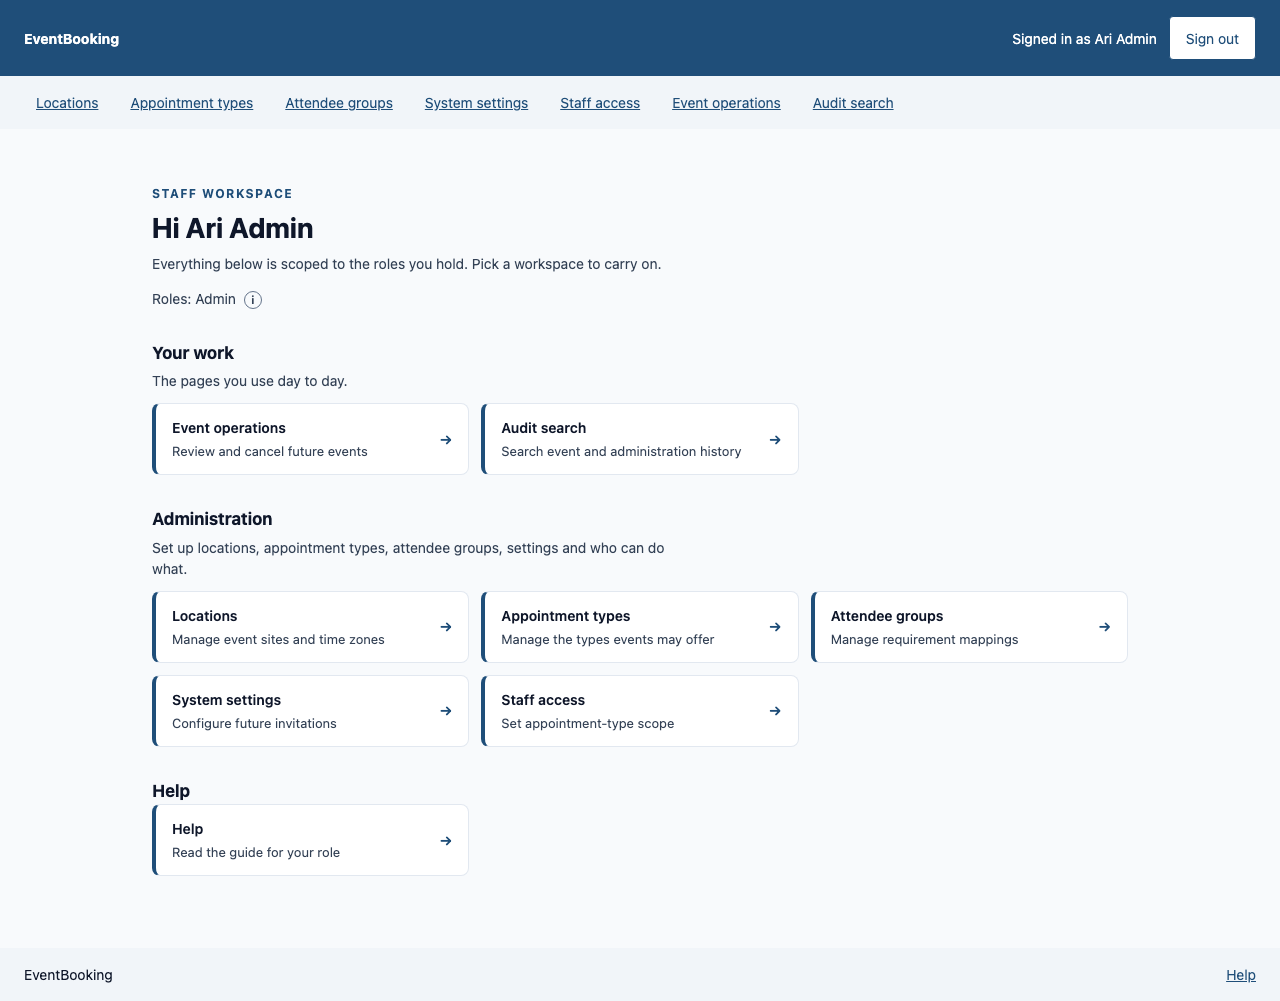
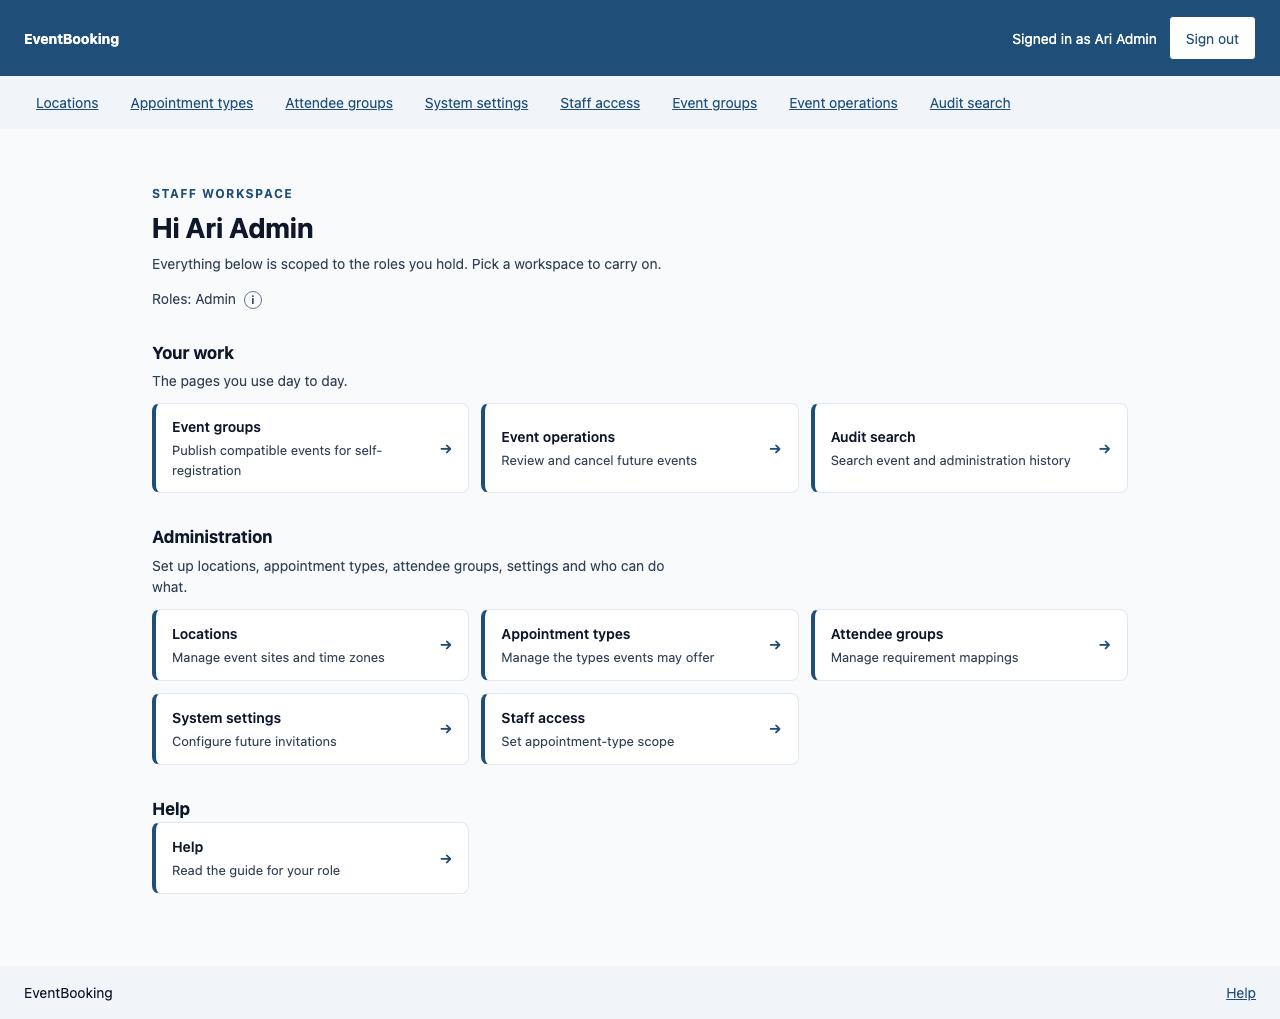
docs: add event-group self-registration to user guides and acceptance pack

diff --git a/docs/user-guides/coordinator-guide.md b/docs/user-guides/coordinator-guide.md
@@ -18,7 +18,9 @@ audit trail.
 6. After delivery staff record outcomes, review each attendee's readiness.
 7. If the latest unsatisfied attempt is No-show, select **Arrange missed appointments** and monitor
    the recovery invitation until the missed types are completed.
-8. When a plan changes, cancel the attendee's booking from their row — with or without sending
+8. To let attendees register themselves instead of waiting for an invitation, publish an event group
+   on **Event groups** and share its link.
+9. When a plan changes, cancel the attendee's booking from their row — with or without sending
    fresh options — rather than asking them to find their emailed link.
 
 ## Home page
@@ -28,6 +30,7 @@ After signing in, the home-page access summary should include **Coordinator**. I
 - **Attendees** (`/attendees`)
 - **Dashboards** (`/dashboards`)
 - **Events** (`/events`)
+- **Event groups** (`/event-groups`)
 - **Audit trail** (`/audit`)
 - **Help** (`/help`) — every role's guide, including the attendee guide
 
@@ -243,6 +246,51 @@ rebooking workflow — so tell the delivery teams first, and expect the affected
 watching afterwards. A Manager can cancel the same window from their own screen, so agree who is
 acting before anyone clicks.
 
+## Event groups screen
+
+Use `/event-groups` to publish Confirmed Events for public self-registration. Admins can manage
+event groups too. An attendee who opens the shared link chooses an event, sends a request, and books
+the place by confirming through an emailed link. No invitation is involved, and the Attendee record
+is created or reused automatically.
+
+### Create an event group
+
+1. Select **New event group**.
+2. Enter a **Title** and **Description**. Both are shown to the public.
+3. Under **Eligible attendee groups**, tick each Attendee Group that may register. The line beneath
+   lists the Appointment Types those groups require.
+4. Select **Save**. A new group starts closed; edit it and tick **Open group for registration** when it is ready to publish.
+
+The Attendee Group **Description** (set by an Admin on Attendee groups) appears beside each group
+name on the public form. Every selected group must require exactly the same Appointment Types as
+the events you add.
+
+### Add and manage events
+
+1. Select **Edit** on the group.
+2. Choose an event from **Add an event…**, then select **Add event**. Only active future events
+   whose Appointment Types exactly match the group are selectable; incompatible ones are greyed out
+   with the types they lack.
+3. Newly added events start closed: tick **Open registration for this event** to publish one, and
+   untick it to stop new requests. Select **Remove** to take an event out of the group.
+4. Copy the **Shareable link** to send to attendees.
+
+Closing a group, closing an event, or removing an event stops new requests and confirmations but
+never cancels a Booking that already exists. An Attendee Group cannot be deactivated, and its
+Appointment Type mapping cannot be changed to an incompatible set, while an event group lists it.
+
+### What attendees experience
+
+The public page never shows capacity. A group with no space is labelled "(full)" on the request
+form, and the server refuses an over-capacity request or confirmation. A request holds no place;
+capacity is taken only at confirmation, so an attendee who confirms after the last place has gone is
+refused.
+
+Confirmation creates or reuses the Attendee (matched on email) and creates a Booking, so the person
+then appears on **Attendees** as Booked with a normal booking-management link. Unconfirmed requests
+expire after the window Admins set on System settings (24 hours by default), and terminal requests
+are purged 30 days after they are confirmed or expire, along with their confirmation emails.
+
 ## Audit trail screen
 
 Use `/audit` to search across the whole record. As a Coordinator you see both attendee entries
@@ -263,6 +311,15 @@ proposals, events, and staff access profiles).
 
 ## Troubleshooting
 
+- **An event will not add to an event group** — its Appointment Types differ from those the
+  selected Attendee Groups require, it is not active, or it has started. Pick a compatible event or
+  change the group selection.
+- **An attendee says the confirmation link does not work** — links expire after the configured
+  window and work once. Ask them to submit a new request from the group page; if they already
+  confirmed, look for their Booking on **Attendees**.
+- **An attendee says no email arrived** — the page shows the same message whether or not an address
+  is eligible, and repeat requests for one address are throttled. Ask them to check spam and wait
+  before retrying.
 - **Invite cannot be created** — fewer than three suitable events exist, the attendee data is
   inconsistent, or another action changed state. Refresh, fix the stated dependency, and retry.
 - **Invitation link is invalid** — it may be expired, used, cancelled, or superseded by an Employee

diff --git a/docs/user-guides/README.md b/docs/user-guides/README.md
@@ -8,11 +8,11 @@ that page; a signed-out visitor sees only the attendee guide.
 
 | Guide | Who it is for | Main workspace |
 |---|---|---|
-| [Admin](admin-guide.md) | System administrators who set appointment-type scope, settings, and event operations | System settings, Staff access, Events, Audit trail |
-| [Coordinator](coordinator-guide.md) | Recruitment coordinators who manage attendees, invitations, bookings, readiness, and recovery | Attendees, Dashboards, Events, Audit trail |
+| [Admin](admin-guide.md) | System administrators who set appointment-type scope, settings, and event operations | System settings, Staff access, Events, Event groups, Audit trail |
+| [Coordinator](coordinator-guide.md) | Recruitment coordinators who manage attendees, invitations, bookings, readiness, and recovery | Attendees, Dashboards, Events, Event groups, Audit trail |
 | [Manager](manager-guide.md) | Appointment-type managers who negotiate events, manage capacity, and may deliver appointments | Event proposals, Appointments |
 | [Appointment staff](appointment-staff-guide.md) | Delivery staff who check attendees in and record outcomes | Appointments |
-| [Attendee](attendee-guide.md) | Invited attendees who choose and manage appointment times | Email links for booking and booking management |
+| [Attendee](attendee-guide.md) | Invited or self-registering attendees who choose and manage appointment times | Email links for booking and booking management; public event-group pages |
 
 ## End-to-end workflow and dependencies
 
@@ -28,6 +28,7 @@ that page; a signed-out visitor sees only the attendee guide.
 | 8. Deliver appointments | Manager or Appointment staff | The attendee has an active Booking on the selected Confirmed Event | **Appointments**: check in, complete, or record No-show for the caller's scoped type |
 | 9. Check readiness | Coordinator | Appointment outcomes have been recorded | **Attendees**: expand readiness; the attendee is ready only when every current required type has a Completed outcome |
 | 10. Recover a missed appointment | Coordinator, then Attendee | The latest unsatisfied attempt for at least one current required type is No-show | **Attendees**: choose **Arrange missed appointments**; the attendee books a new shared event containing only the missed types |
+| 5a. Publish for self-registration (optional) | Admin or Coordinator | Confirmed Events that all offer exactly the Appointment Types the chosen Attendee Groups require | **Event groups**: create a group, add compatible events, share its link; attendees request a place and confirm by email, which books it without an invitation |
 | 11. Account for a change | Admin or Coordinator | The change has been recorded | **Audit trail**, or the **History** control on a attendee or event row |
 
 An upstream delay remains visible at the next stage. For example, a Coordinator cannot issue an
@@ -46,8 +47,8 @@ requires returning to the home page first. **Help** is the last link in both pla
 
 | Access profile | Workspace links |
 |---|---|
-| Admin | System settings, Staff access, Events, Audit trail |
-| Coordinator | Attendees, Dashboards, Events, Audit trail |
+| Admin | System settings, Staff access, Events, Event groups, Audit trail |
+| Coordinator | Attendees, Dashboards, Events, Event groups, Audit trail |
 | Manager | Event proposals, Appointments |
 | Appointment staff | Appointments |
 
@@ -60,8 +61,8 @@ identity provider; ask whoever administers application access there, not a Event
 page or action is missing, first check the access summary: the absence is normally an access rule,
 not a page fault.
 
-Attendees do not sign in. They use personal, single-use links sent by email and see no staff
-navigation. They can open `/help` without signing in to read the attendee guide.
+Attendees do not sign in. They use personal, single-use links sent by email, or the public
+event-group pages a Coordinator shares, and see no staff navigation. They can open `/help` without signing in to read the attendee guide.
 
 ## Who assigns what
 
@@ -82,6 +83,9 @@ profile only appears on the Staff access screen after that person has signed in 
   Appointment Types the attendee requires; nobody selects those requirements individually.
 - A **Event Proposal** is a suggested four-hour window. Once all three Managers accept it, it becomes
   a **Confirmed Event** that attendees can book.
+- An **Event Group** is a public page that lists open Confirmed Events for chosen Attendee Groups. An
+  attendee can request a place there without an invitation; the place is booked only when they
+  confirm through an emailed link.
 - An **Invite** offers a attendee exactly three suitable Confirmed Events. Confirming one creates a
   **Booking**.
 - A **Booking Appointment** is one required Appointment Type inside a Booking. Each type is checked

diff --git a/docs/user-acceptance/admin.md b/docs/user-acceptance/admin.md
@@ -7,7 +7,7 @@
 ## ADM-01 — Find your workspaces and access boundary
 
 1. Sign in at [EventBooking](https://eventbooking.tqaentry.com/). **Expect:** the home page shows the Admin role and no appointment-type scope.
-2. In **Administration**, find **Locations**, **Appointment types**, **Attendee groups**, **System settings**, and **Staff access**. In **Your work**, find **Event operations** and **Audit search**. Open **Help**. **Expect:** the pages load and the Admin guide is available.
+2. In **Administration**, find **Locations**, **Appointment types**, **Attendee groups**, **System settings**, and **Staff access**. In **Your work**, find **Event groups**, **Event operations** and **Audit search**. Open **Help**. **Expect:** the pages load and the Admin guide is available.
 3. Inspect the home page and navigation. **Expect:** no **Attendees**, **Dashboards**, **Negotiation board**, or **Appointment workspace** link. Open `/attendees` directly in the address bar. **Expect:** the page states that a Coordinator profile is required and shows no attendee records.
 
 **Reference screens (local demo build):**
@@ -29,7 +29,7 @@
 
 1. Open **Locations**. Find an active site, read its address and time zone, then select **Edit**. **Expect:** Code is fixed; Name, Address, Time zone and Active are visible. Select **Cancel** without saving.
 2. Open **Appointment types**. **Expect:** each row shows Code, Name, Manager, Status and **Edit**. A type without a Manager is visibly identified.
-3. Open **Attendee groups**. Open one row with **Edit**. **Expect:** its required appointment types are selected. Select **Cancel** without saving.
+3. Open **Attendee groups**. Open one row with **Edit**. **Expect:** its required appointment types are selected and a **Description** field (up to 500 characters, shown publicly on self-registration forms) is present. Select **Cancel** without saving.
 4. If the test lead reserved a unique code for you, create one test Location with **New location** and a valid IANA time zone, then confirm it appears in the table. Leave it active for later tests. Otherwise mark this step Not run.
 5. If the test lead reserved a second unique code, select **New attendee group**, enter that Code and a Name, and select at least one active appointment type with a Manager. Select **Save**. **Expect:** the new group appears with those required types. Otherwise mark this step Not run.
 
@@ -44,13 +44,16 @@
 ![Attendee groups](screenshots/adm02-attendee-groups.png)
 *Attendee groups.*
 
+![Attendee group editor with Description](screenshots/adm02-attendee-group-edit.png)
+*Attendee group editor with the new Description field.*
+
 **Result:** Pass / Fail / Blocked / Not run
 
 **Actual result and evidence:** ____________________
 
 ## ADM-03 — Check invitation settings
 
-1. Open **System settings**. Record **Invitation expiry (days)**, **Automatic retries**, and **Options per invitation**. **Expect:** all three current values are visible; options per invitation is between 1 and 5.
+1. Open **System settings**. Record **Invitation expiry (days)**, **Automatic retries**, and **Options per invitation**, and **Self-registration confirmation window (hours)**. **Expect:** all four current values are visible; options per invitation is between 1 and 5 and the confirmation window is between 1 and 168 hours.
 2. If settings changes are reserved for this run, change one value by 1 within its displayed range and select **Save changes**. Refresh the page. **Expect:** the new value remains.
 3. Restore the original value and save again. **Expect:** it remains after refresh. Existing invitations should retain the settings captured when they were issued; confirm that with the Coordinator if an existing test invitation is available.
 

diff --git a/docs/user-acceptance/coordinator.md b/docs/user-acceptance/coordinator.md
@@ -6,7 +6,7 @@
 
 ## COO-01 — Find the work queues
 
-1. Sign in. **Expect:** **Attendees**, **Dashboards**, **Event operations**, and **Audit search** under **Your work**; read-only **Locations**, **Appointment types**, and **Attendee groups** under **Reference data**. **Staff access** and **System settings** are absent.
+1. Sign in. **Expect:** **Attendees**, **Dashboards**, **Event operations**, **Event groups**, and **Audit search** under **Your work**; read-only **Locations**, **Appointment types**, and **Attendee groups** under **Reference data**. **Staff access** and **System settings** are absent.
 2. Open **Dashboards**. Switch between **Awaiting availability**, **No response**, and **Events**. **Expect:** each tab shows its own count and rows or an empty message. Use the Location filter and note whether the data changes as expected.
 3. Open **Attendees**. Use Status, Group, Readiness, and **Search by name or email…** to locate an existing test attendee. **Expect:** the row shows required types, status, readiness, delivery, booking and history.
 4. Open **Help**. **Expect:** the Coordinator guide is available.
@@ -97,3 +97,21 @@
 **Result:** Pass / Fail / Blocked / Not run
 
 **Event, affected booking and evidence:** ____________________
+
+## COO-07 — Publish an event group for self-registration
+
+1. Open **Event groups**. Select **New event group**. (Known issue on the 2026-09-26 local build: **New event group** and **Edit** do not appear because the API omits the `createEventGroup` link. Mark Blocked or create the group through the API until it lands.) Enter a reserved **Title** and **Description**, tick one or more **Eligible attendee groups**, and select **Save**. **Expect:** the line beneath the group list shows the Appointment Types those groups require, and the new group appears in the list. Groups are created closed; tick **Open group for registration** and save to publish.
+2. Select **Edit** on it. Open **Add an event…**. **Expect:** events whose types do not match the group are greyed out and say which types differ. Add a compatible future event. **Expect:** it appears under **Member events**. Newly added events start with **Open registration for this event** unticked; tick it to publish that event.
+3. Copy the **Shareable link** for the Attendee tester (ATT-04). Do not paste it into a public issue.
+4. After ATT-04, find the attendee on **Attendees**. **Expect:** status Booked with a booking that the **Bookings** control reveals. **History** shows the self-registration booking.
+5. Untick **Open registration for this event**, or untick **Open group for registration** and save. **Expect:** the public page no longer offers new requests, and the earlier booking remains.
+6. Try to deactivate an attendee group that the event group lists (Admin only, on **Attendee groups**). **Expect:** it is refused with a message naming the event groups that use it.
+
+**Reference screens (local demo build):**
+
+![Event groups list (groups created through the API — see the note below)](screenshots/coo07-event-groups-list.png)
+*Event groups list (groups created through the API — see the note below).*
+
+**Result:** Pass / Fail / Blocked / Not run
+
+**Event group, event and evidence:** ____________________

diff --git a/docs/user-acceptance/attendee.md b/docs/user-acceptance/attendee.md
@@ -65,3 +65,45 @@
 **Result:** Pass / Fail / Blocked / Not run
 
 **Device, accessibility observations and evidence:** ____________________
+
+## ATT-04 — Register yourself from a group page
+
+Needs a shareable link from the Coordinator (COO-07) and a test mailbox you control. No invitation is required.
+
+1. Open the group link. **Expect:** the group title and description, then open events showing place, address, date and start time, with no capacity figures. A closed or unknown group says it is no longer open and shows the Coordinator contact.
+2. Select an event. **Expect:** the event's place, time and appointment types, and **Full name**, **Email address** and **Your group** fields. The page states that sending the request does not hold a place.
+3. Leave a field empty and select **Send request**. **Expect:** an accessible error and the other entries kept.
+4. Enter the test name and mailbox, choose a group, and select **Send request**. **Expect:** **Check your email**, with the same wording for a new or an already-requested address. Repeat the request once. **Expect:** the same wording, and no second confirmation email arrives immediately.
+5. Open the emailed link. **Expect:** the group title, place, date, start time and your group, with **Confirm my place**. Select it once. **Expect:** **Your place is booked** and a booking-confirmation email with a management link.
+6. Reopen the confirmation link. **Expect:** it reports that your place is booked and creates no second booking. Open the management link and confirm it shows the booking.
+7. With a link known to be expired or malformed, open it. **Expect:** an error with the Coordinator contact, and no token in the page text. Never edit a real person's token to test this.
+
+**Reference screens (local demo build):**
+
+![Public event group](screenshots/att04-group.png)
+*Public event group.*
+
+![Request form](screenshots/att04-event-form.png)
+*Request form.*
+
+![Validation error](screenshots/att04-form-error.png)
+*Validation error.*
+
+![Request sent](screenshots/att04-check-email.png)
+*Request sent.*
+
+![Confirm my place](screenshots/att04-confirm.png)
+*Confirm my place.*
+
+![Place booked](screenshots/att04-booked.png)
+*Place booked.*
+
+![Invalid confirmation link](screenshots/att04-invalid-link.png)
+*Invalid confirmation link.*
+
+![Request form at 375 px wide](screenshots/att04-mobile-event-form.png)
+*Request form at 375 px wide.*
+
+**Result:** Pass / Fail / Blocked / Not run
+
+**Device, outcome and evidence:** ____________________

diff --git a/docs/user-guides/attendee-guide.md b/docs/user-guides/attendee-guide.md
@@ -29,6 +29,27 @@ Your Booking is valid as soon as **Booking confirmed** appears. If the page says
 could not be confirmed, save the on-screen management link and contact the recruitment team only if
 you need help; do not repeat the booking.
 
+## Register yourself from a group page
+
+Some visits are published on a public page instead of by personal invitation. Use this if the
+recruitment team sent you a link containing `/event-groups/`.
+
+1. Open the link and choose one of the listed places and times.
+2. Enter your **Full name** and **Email address**, and choose **Your group**. A group marked
+   **(full)** cannot be chosen.
+3. Select **Send request**. The page says **Check your email**, whether or not the address can
+   receive mail. **Sending a request does not hold a place.**
+4. Open the link in the email and select **Confirm my place**. Your place is booked only now, and
+   the page says **Your place is booked**.
+5. Check the booking-confirmation email for your management link, then manage or cancel as
+   described below.
+
+The confirmation link works once and expires after a limited time (24 hours unless the recruitment
+team has changed it). If it has expired or was already used, the page says so and shows the
+recruitment team's contact; send a new request if you still need a place. If the last place is taken
+before you confirm, confirmation is refused and you will need to choose another time. Opening the
+link again after booking simply shows that your place is booked.
+
 ## Attend your appointments
 
 Come to transitional location during the confirmed four-hour window. Follow the team's arrival instructions.

diff --git a/docs/user-guides/admin-guide.md b/docs/user-guides/admin-guide.md
@@ -38,6 +38,8 @@ no Appointment Type. The page provides four workspace links plus Help:
 - **System settings** (`/settings`)
 - **Staff access** (`/staff-access`)
 - **Events** (`/events`)
+- **Event groups** (`/event-groups`) — publish events for public self-registration; see the
+  [Coordinator guide](coordinator-guide.md#event-groups-screen)
 - **Audit trail** (`/audit`)
 - **Help** (`/help`) — every role's guide, including this one
 
@@ -120,10 +122,17 @@ Use `/settings` to review the fixed Appointment Types and configure invitation t
 3. Set **Max auto-retry count** to the number of times an unanswered invitation is automatically
    re-issued before the attendee is marked No response - needs follow-up for a Coordinator to
    re-invite manually.
-4. Select **Save changes**.
-5. Wait for **Saved. These changes apply to invites created from now on.** before leaving.
+4. Set **Self-registration confirmation window (hours)** (1 to 168, default 24) to how long an
+   emailed self-registration link stays valid before the request expires.
+5. Select **Save changes**.
+6. Wait for **Saved. These changes apply to invites created from now on.** before leaving.
 
 Changes do not reach back and alter invitations already sent.
+
+On **Attendee groups**, each group also has a **Description** of up to 500 characters. It is shown
+to the public beside the group name on self-registration forms, so say who should choose it. A group
+listed in an event group cannot be deactivated, and its required Appointment Types cannot be changed
+to a set that no longer matches that event group's events.
 
 ## Events screen
 

diff --git a/docs/user-acceptance/README.md b/docs/user-acceptance/README.md
@@ -8,6 +8,7 @@ Use these scripts at [the home-lab EventBooking site](https://eventbooking.tqaen
 | Manager | [Manager acceptance](manager.md) | Can I agree an event and control capacity for my own appointment type? |
 | Coordinator | [Coordinator acceptance](coordinator.md) | Can I add, invite and follow up an attendee? |
 | Attendee | [Attendee acceptance](attendee.md) | Can I book and manage a visit from my private email link? |
+| Attendee (self-registration) | [Attendee acceptance](attendee.md), ATT-04 | Can I request a place from a public group page and book it by confirming my email? |
 | Appointment staff | [Appointment staff acceptance](appointment-staff.md) | Can I find my roster and record the correct outcome? |
 
 ## Before anyone starts
